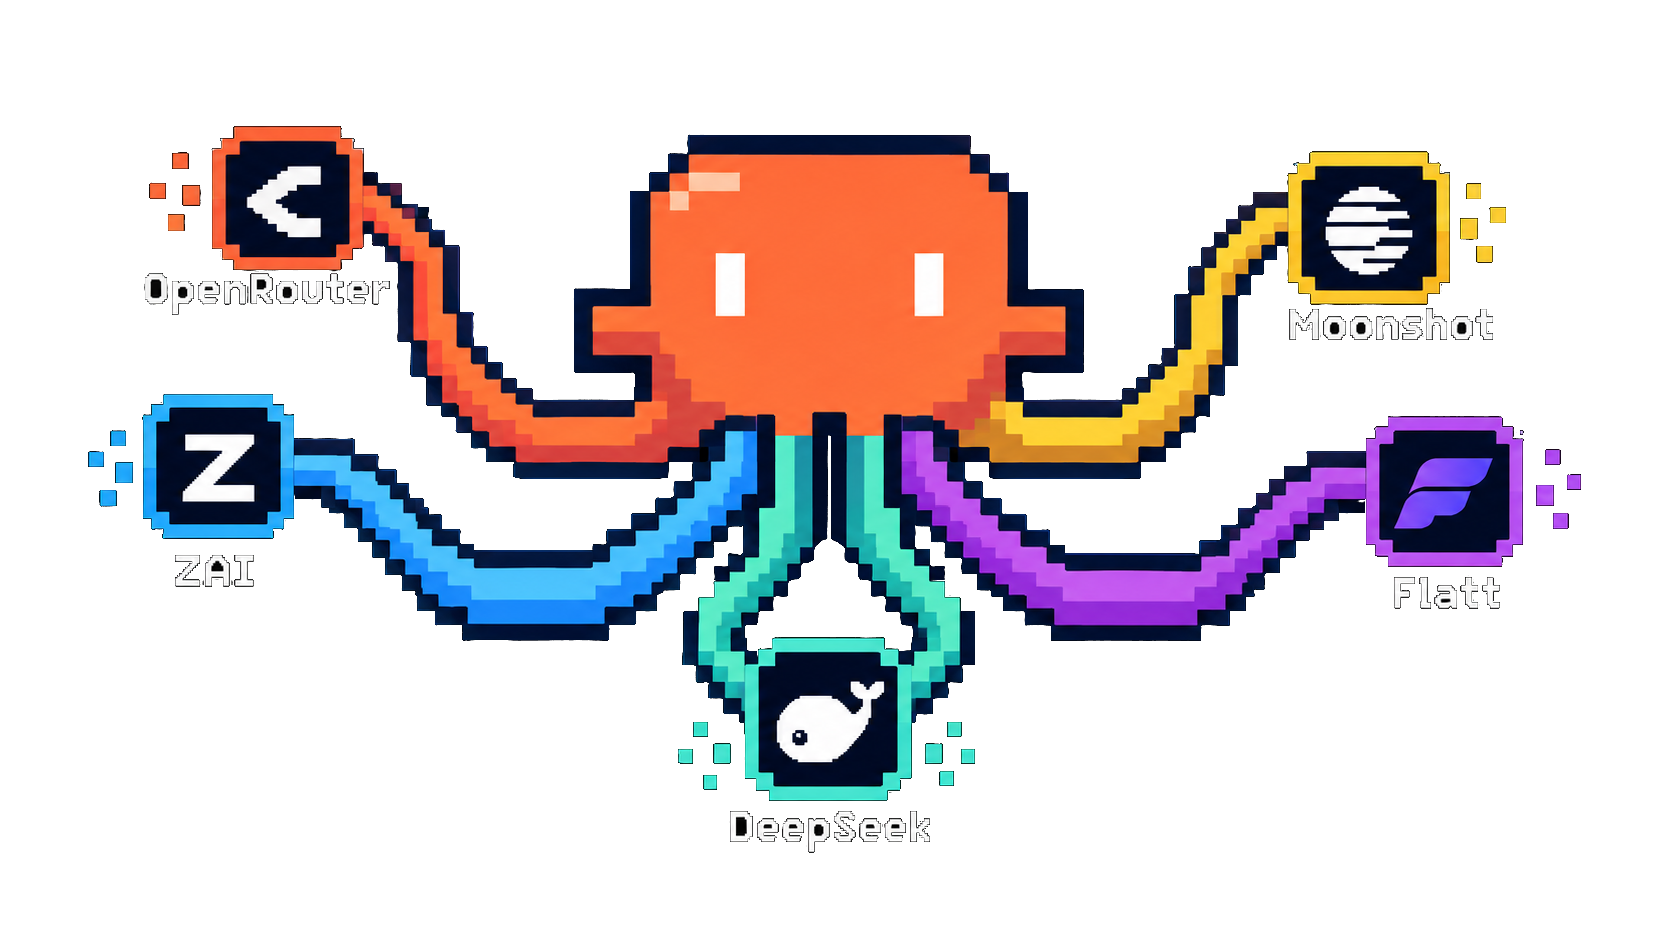
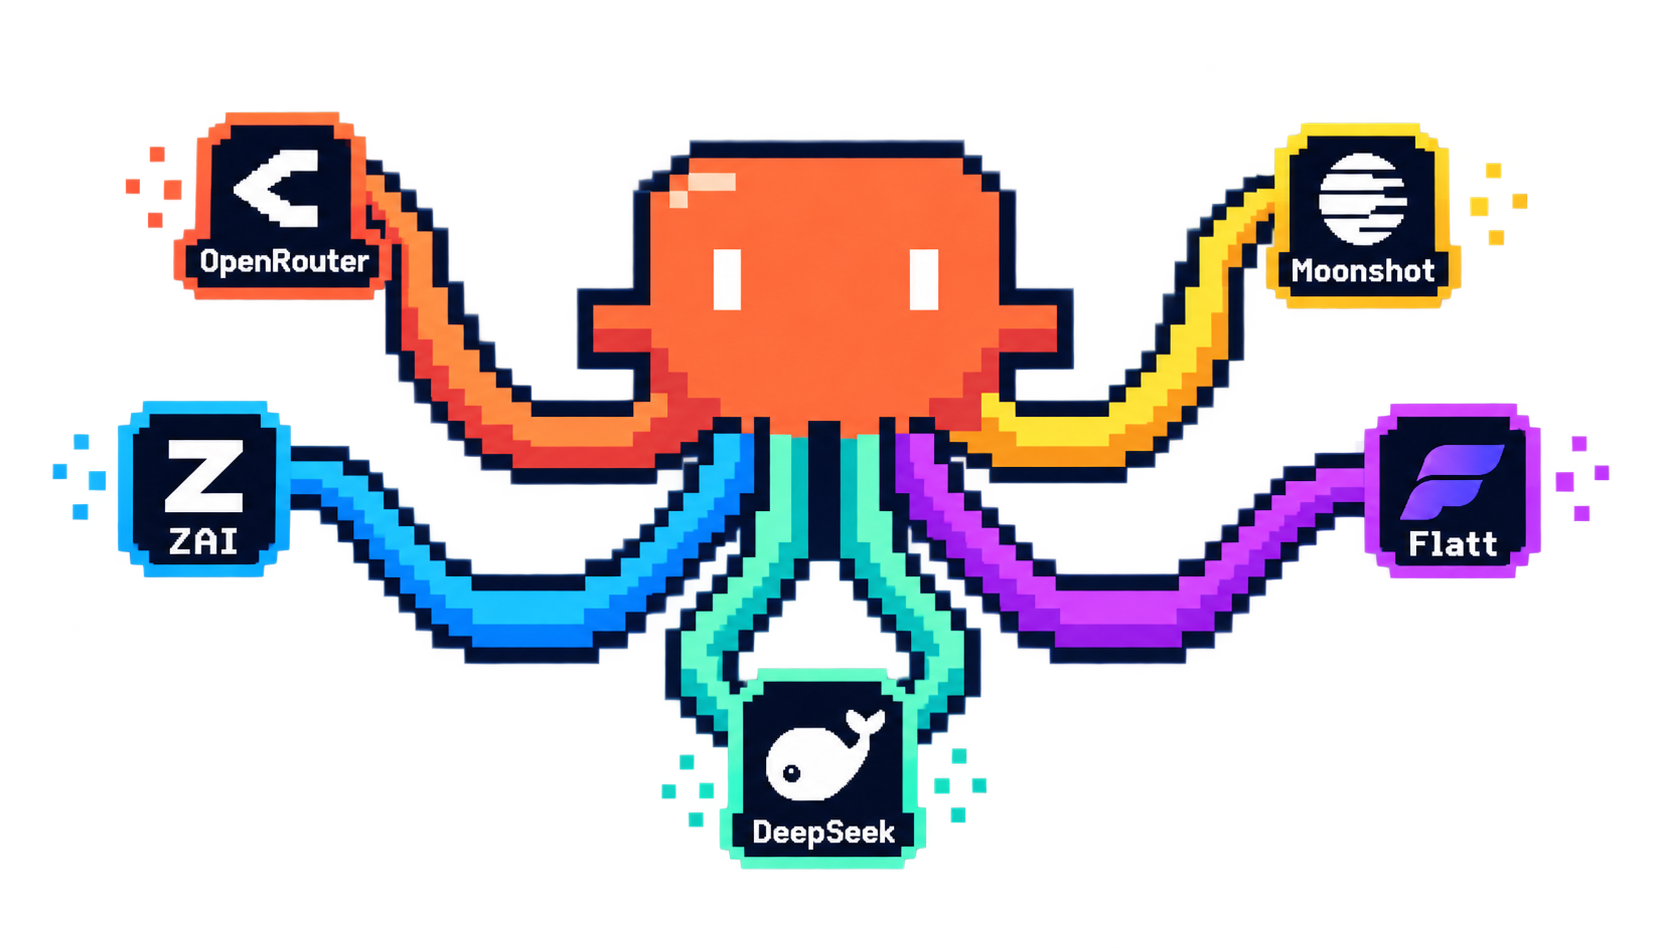
[fix] atualização da foto de cover

Changed region(s): [[0.0307, 0.0918, 0.9837, 0.9177], [0.4304, 0.2447, 0.4611, 0.3365]]

diff --git a/README.en.md b/README.en.md
@@ -15,7 +15,7 @@
 </div>
 
 <div align="center">
-  <img src="cover.jpg" alt="multi-claude" width="600"/>
+  <img src="cover.png" alt="multi-claude" width="600"/>
 </div>
 
 <div align="center">

diff --git a/README.md b/README.md
@@ -15,7 +15,7 @@
 </div>
 
 <div align="center">
-  <img src="cover.jpg" alt="multi-claude" width="600"/>
+  <img src="cover.png" alt="multi-claude" width="600"/>
 </div>
 
 <div align="center">
